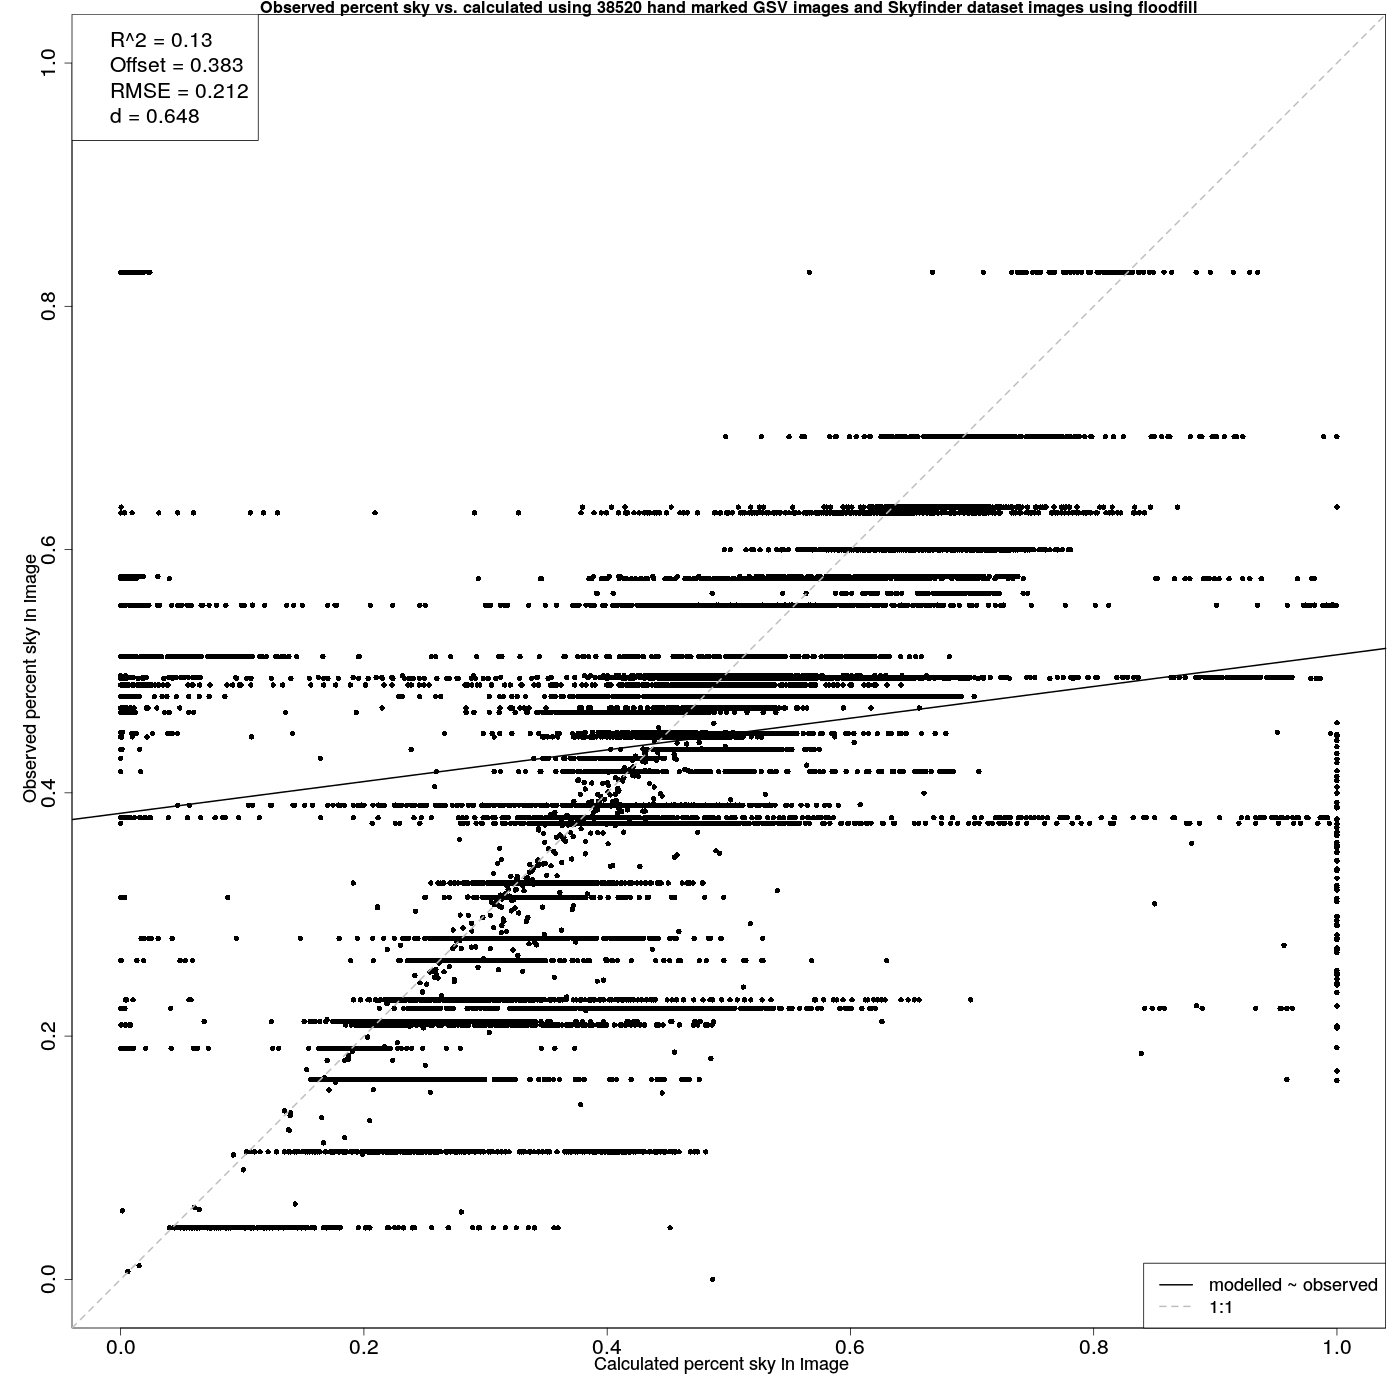
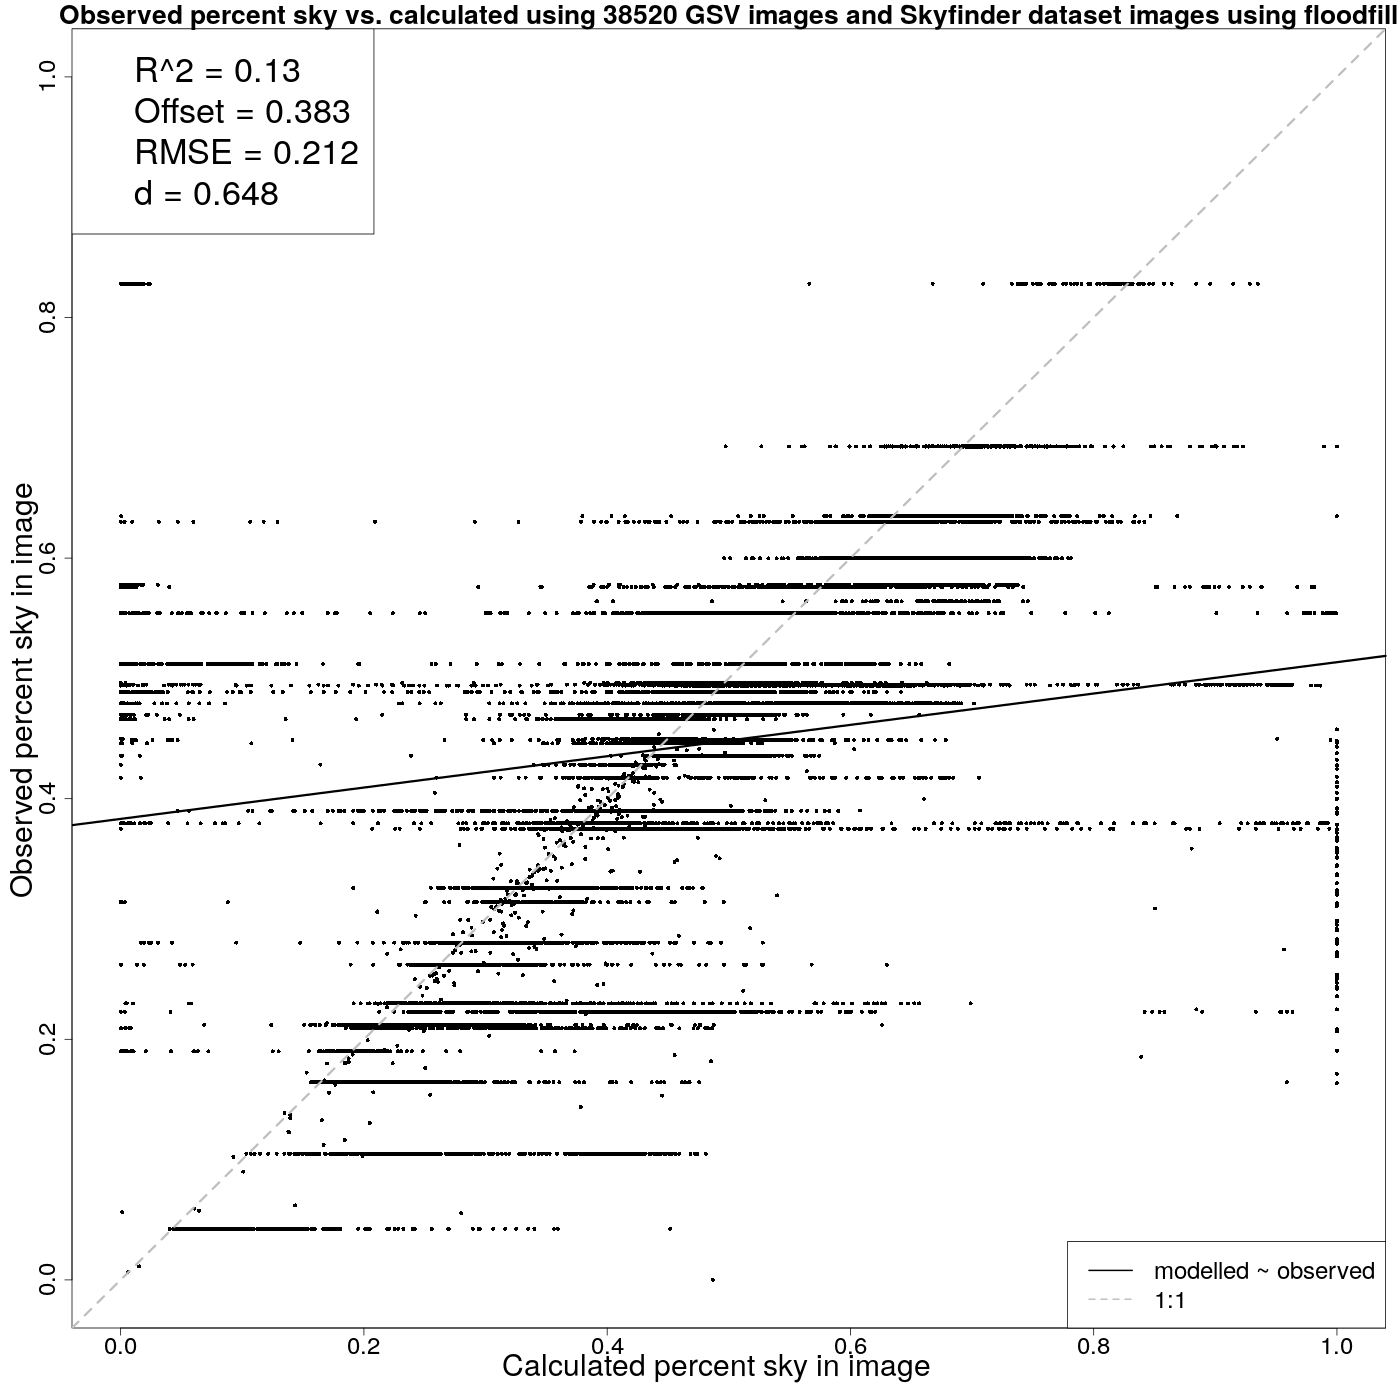
More bigger figures

diff --git a/UrbanClimateICUC10-SVF.tex b/UrbanClimateICUC10-SVF.tex
@@ -413,8 +413,8 @@ Figure \ref{fig:errorplots} presents a theoretical best case. If the NN was 100\
 
 \begin{figure}
 \centering
-a)\includegraphics[scale=0.12]{Images/ErrorPlots.png}
-b)\includegraphics[scale=0.12]{Images/ErrorPlots2.png}
+a)\includegraphics[scale=0.15]{Images/ErrorPlots.png}
+b)\includegraphics[scale=0.15]{Images/ErrorPlots2.png}
 \caption{\textbf{Theoretical best case results if the NN is 100\% accurate for a) Skyfinder and b) GSV datasets.}}
 \label{fig:errorplots}
 \end{figure}
@@ -422,7 +422,7 @@ b)\includegraphics[scale=0.12]{Images/ErrorPlots2.png}
 
 \begin{figure}
 \centering
-\includegraphics[scale=0.12]{Images/ErrorPlotsCNTK.png}
+\includegraphics[scale=0.15]{Images/ErrorPlotsCNTK.png}
 \caption{\textbf{Results of NN picks against the 9636 validation images.}}
 \label{fig:errorplotscntk}
 \end{figure}
@@ -434,8 +434,8 @@ Finally, in an evaluation of the Sobel/flood-fill algorithm, results from the co
 
 \begin{figure}
 \centering
-a)\includegraphics[scale=0.12]{Images/ErrorPlots2FloodfillAll.png}
-b)\includegraphics[scale=0.12]{Images/ErrorPlots2FloodfillValidation.png}
+a)\includegraphics[scale=0.15]{Images/ErrorPlots2FloodfillAll.png}
+b)\includegraphics[scale=0.15]{Images/ErrorPlots2FloodfillValidation.png}
 \caption{\textbf{Results of Sobel/flood-fill combination against a) combined 38,520 image dataset and b) 9636 validation images.}}
 \label{fig:errorfloodall}
 \end{figure}
